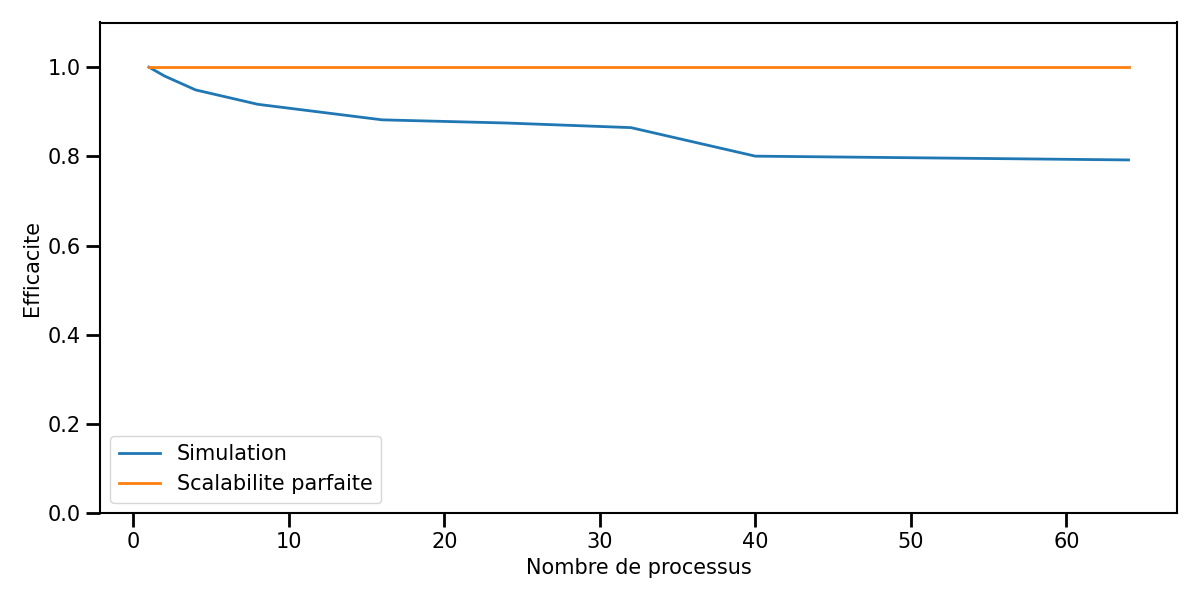
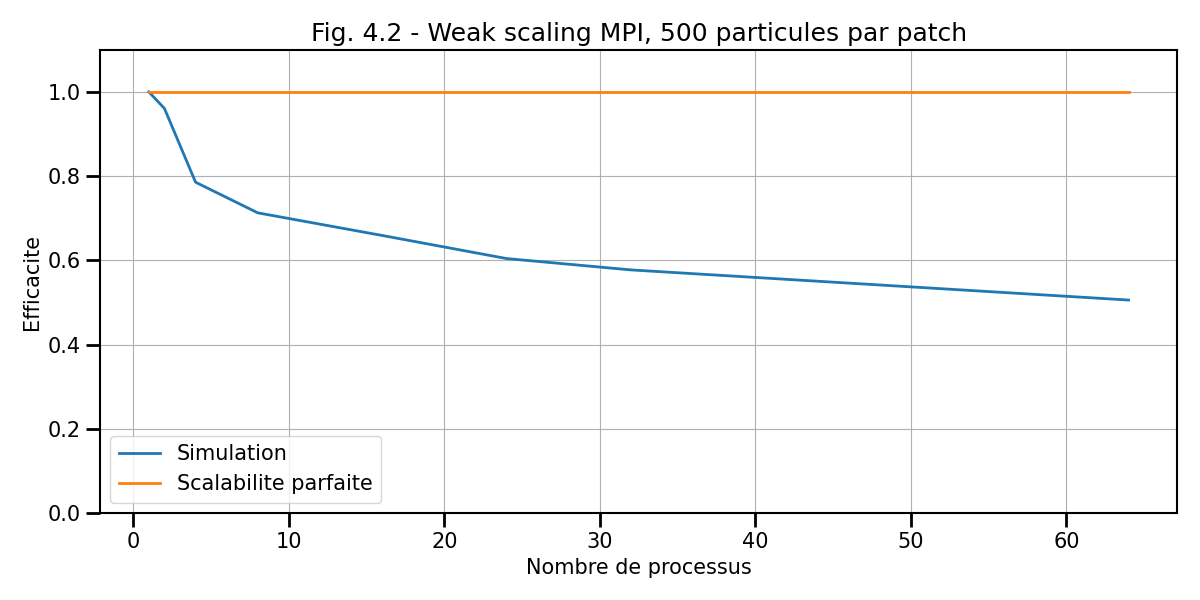
MArble: updated scaling figures

diff --git a/tp/marble/scalings/weak_scaling_mpi_ppp500.py b/tp/marble/scalings/weak_scaling_mpi_ppp500.py
@@ -58,7 +58,7 @@ rcParams['axes.grid'] = True
 # ______________________________________________________________________________
 # Figure temps de simulation
 
-fig = figure(figsize=(12, 6))
+fig0 = figure(figsize=(12, 6))
 gs = GridSpec(2, 2)
 ax = subplot(gs[:,:])
 
@@ -72,16 +72,20 @@ ax.set_title("Fig. 4.1 - Weak scaling MPI, 500 particules par patch")
 ax.set_xlabel("Nombre de processus")
 ax.set_ylabel("Temps (s)")
 
+
+
 #ax.set_yscale("log")
 
 ax.legend(loc="best",ncol=2)
 
-fig.tight_layout()
+fig0.tight_layout()
+
+fig0.savefig("../../../support/materiel/marble_mpi_weak_scaling_ppp500_time.png")
 
 # ______________________________________________________________________________
 # Figure efficacite
 
-fig = figure(figsize=(12, 6))
+fig1 = figure(figsize=(12, 6))
 gs = GridSpec(2, 2)
 ax = subplot(gs[:,:])
 
@@ -98,12 +102,14 @@ ax.set_ylabel("Efficacite")
 
 ax.legend(loc="best")
 
-fig.tight_layout()
+fig1.tight_layout()
+
+fig1.savefig("../../../support/materiel/marble_mpi_weak_scaling_ppp500_efficiency.png")
 
 # ______________________________________________________________________________
 # Figure Part MPI
 
-fig = figure(figsize=(12, 6))
+fig2 = figure(figsize=(12, 6))
 gs = GridSpec(2, 2)
 ax = subplot(gs[:,:])
 
@@ -118,7 +124,9 @@ ax.set_ylabel("Part (%)")
 
 ax.legend(loc="best")
 
-fig.tight_layout()
+fig2.tight_layout()
+
+fig2.savefig("../../../support/materiel/marble_mpi_weak_scaling_ppp500_part.png")
 
 # _____________________________________________________________________________
 

diff --git a/tp/marble/scalings/strong_scaling_mpi_ppp1000.py b/tp/marble/scalings/strong_scaling_mpi_ppp1000.py
@@ -80,7 +80,7 @@ ax0.set_ylabel("Temps (s)")
 ax1.set_xlabel("Nombre de processus")
 ax1.set_ylabel("Temps (s)")
 
-ax0.set_title("Fig. 5.1 - Strong scaling MPI, 1000 particules par patch")
+ax0.set_title("Fig. 6.1 - Strong scaling MPI, 1000 particules par patch")
 
 #ax.set_yscale("log")
 
@@ -102,7 +102,7 @@ ax.plot(times["cores"],times["efficiency"],lw=2,label="Simulation")
 
 ax.plot([times["cores"].min(), times["cores"].max()],[1,1],lw=2,label="Scalabilite parfaite")
 
-ax.set_title("Fig. 5.2 - Strong scaling MPI, 1000 particules par patch")
+ax.set_title("Fig. 6.2 - Strong scaling MPI, 1000 particules par patch")
 
 # ax.set_ylim([0.,1.1])
 
@@ -126,7 +126,7 @@ ax.plot(times["cores"],times["collision"]/times["loop"]*100.,lw=2,color='C1',lab
 ax.plot(times["cores"],times["exchange"]/times["loop"]*100.,lw=2,color='C2',label='Echange particules')
 ax.plot(times["cores"],times["global"]/times["loop"]*100.,lw=2,color='C3',label='Communications globales')
 
-ax.set_title("Fig. 5.3 - Strong scaling MPI, 1000 particules par patch")
+ax.set_title("Fig. 6.3 - Strong scaling MPI, 1000 particules par patch")
 
 ax.set_xlabel("Nombre de processus")
 ax.set_ylabel("Part (%)")

diff --git a/tp/marble/README_source.md b/tp/marble/README_source.md
@@ -1011,22 +1011,22 @@ xxx
 ```
 
 <img src="../../support/materiel/marble_omp_strong_scaling_ppp1000_time.png" height="400">
-<img src="../../support/materiel/marble_omp_strong_scaling_ppp1000_efficiency.png" height="400">
-<img src="../../support/materiel/marble_omp_strong_scaling_ppp1000_part.png" height="400">
+<img src="../../support/materiel/marble_omp_strong_scaling_ppp1000_efficiency.png" height="300">
+<img src="../../support/materiel/marble_omp_strong_scaling_ppp1000_part.png" height="300">
 
 **Deuxième étude de strong scaling pour le code OpenMP**
 
 **Première étude de weak scaling pour le code MPI**
 
-<img src="../../support/materiel/marble_mpi_weak_scaling_ppp500_time.png" height="400">
-<img src="../../support/materiel/marble_mpi_weak_scaling_ppp500_efficiency.png" height="400">
-<img src="../../support/materiel/marble_mpi_weak_scaling_ppp500_part.png" height="400">
+<img src="../../support/materiel/marble_mpi_weak_scaling_ppp500_time.png" height="300">
+<img src="../../support/materiel/marble_mpi_weak_scaling_ppp500_efficiency.png" height="300">
+<img src="../../support/materiel/marble_mpi_weak_scaling_ppp500_part.png" height="300">
 
 **Deuxième étude de weak scaling pour le code MPI**
 
-<img src="../../support/materiel/marble_mpi_weak_scaling_ppp2000_time.png" height="400">
-<img src="../../support/materiel/marble_mpi_weak_scaling_ppp2000_efficiency.png" height="400">
-<img src="../../support/materiel/marble_mpi_weak_scaling_ppp2000_part.png" height="400">
+<img src="../../support/materiel/marble_mpi_weak_scaling_ppp2000_time.png" height="300">
+<img src="../../support/materiel/marble_mpi_weak_scaling_ppp2000_efficiency.png" height="300">
+<img src="../../support/materiel/marble_mpi_weak_scaling_ppp2000_part.png" height="300">
 
 **Etude de strong scaling pour le code MPI**
 
